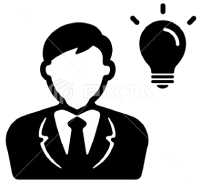
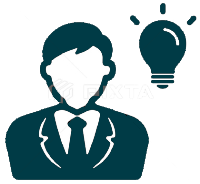
色変更

diff --git a/html/common/css/layout.css b/html/common/css/layout.css
@@ -62,12 +62,12 @@ p{color: #003B46;}
 		#head .site_logo img { max-width:200px; }
 	}
 
-#head_navi li:not(.head_contact) a { display:block; color:#07575b; }
+#head_navi li:not(.head_contact) a { display:block; color:#003B46; }
 #head_navi .head_contact { text-align:center; }
 #head_navi .head_contact > * { display:block; margin:0 auto; }
 #head_navi .head_contact .tel { font-weight:bold; font-size:1.5em; margin-bottom:5px; }
 #head_navi .head_contact .tel,
-#head_navi .head_contact .tel a { color:#07575b; }
+#head_navi .head_contact .tel a { color:#003B46; }
 	@media (max-width: 575px){
 		#head_navi > ul { letter-spacing:-0.4em; }
 		#head_navi > ul > li { letter-spacing:normal; }
